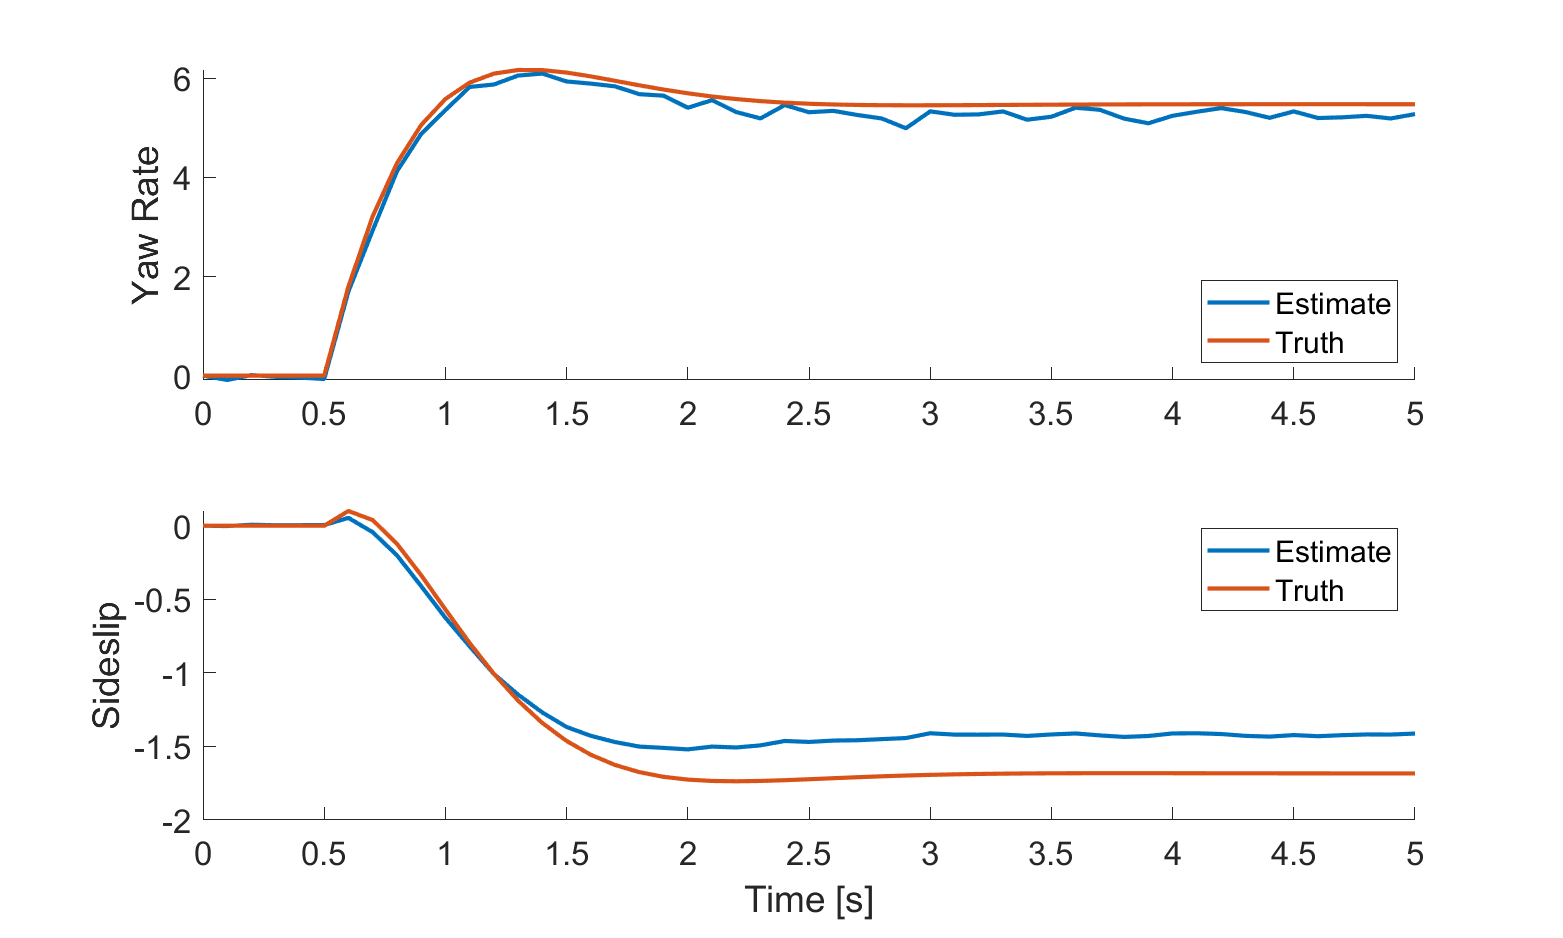
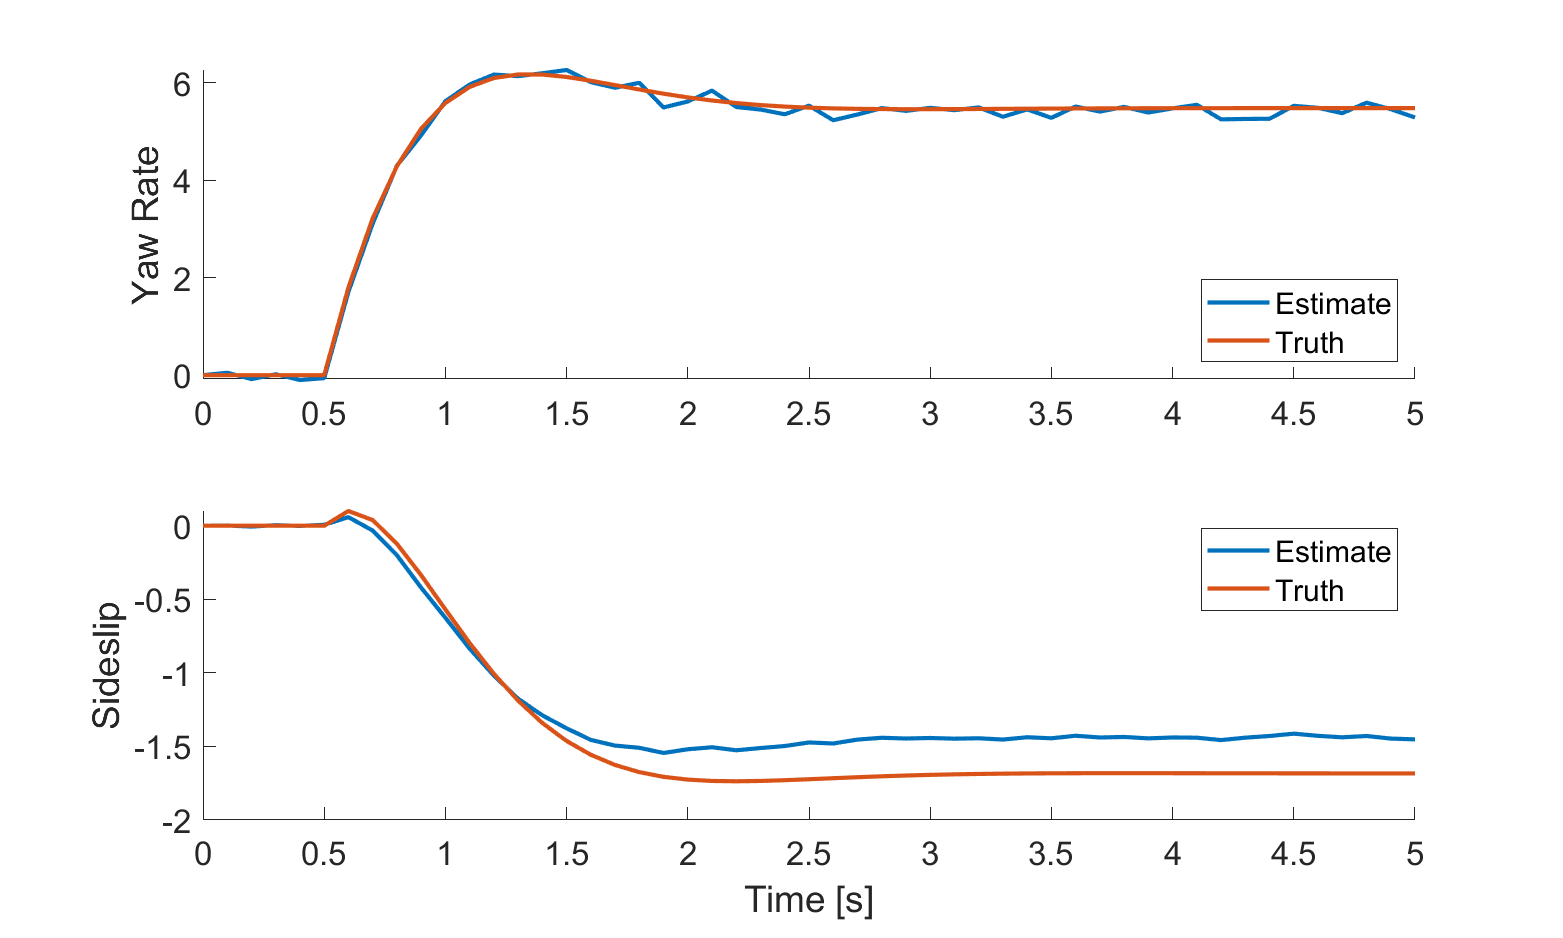
working on question 4 b

diff --git a/Q4b.m b/Q4b.m
@@ -7,60 +7,59 @@ format shortg
 %% Begin Problem 4
 
 % Defining parameters given in problem statement
-A_c = [-2.62 12;-0.96 -2];
-B_c = [14;1];
-C_c = [1 0];
-
-
-
-Q_c = 0.05;
-
-dt = 0.1; % 10 [Hz]
-t = 0:dt:5;
-
-measurement_noise = gaussianDistFCN([length(t) 1],0.1,0);
-% Using Bryson's Trick to convert the continuous system to discrete
-BT = [-A_c B_c*Q_c*B_c'; zeros(2) A_c'];
-BT = expm(BT*dt);
-
-A_da = BT(3:4,3:4)';
-Q_d = A_da*BT(1:2,3:4);
-% B_d = B_c*dt;
-C_d = C_c;
-R_d = 0.05;
-
-steer_angle = [zeros(5,1); ones(46,1)];
-
-% Starting the simulation
-x = zeros(2,length(t));
-y = zeros(1,length(t));
-
-x_plus = zeros(2,length(t));
-P_plus = zeros(2,2);
-
-% Part b - updated dynamic model
 A_c = [-2.42 4;-0.99 -2];
 B_c = [18;1];
 C_c = [1 0];
 
+dt = 0.1; % 10 [Hz]
+t = 0:dt:5;
+Q_c = 0.05;
+measurement_noise = gaussianDistFCN([length(t) 1],0.1,0);
+steer_angle = [zeros(5,1); ones(46,1)];
 
-
-
+% Using Bryson's Trick to convert the continuous system to discrete
 BT = [-A_c B_c*Q_c*B_c'; zeros(2) A_c'];
 BT = expm(BT*dt);
 
-A_d = BT(3:4,3:4)';
-B_d = B_c*dt;
+A_d_a = BT(3:4,3:4)';
+Q_d_a = A_d_a*BT(1:2,3:4);
+B_d_a = B_c*dt;
+C_d_a = C_c;
+R_d_a = 0.01;
 
+x = zeros(2,length(t));
+y = zeros(1,length(t));
+
+% Modeling Continous System
 for i = 2:length(t)
 
     % Modeling System
-    x(:,i) = A_d*x(:,i-1) + B_d*steer_angle(i-1);
-    y(i) = C_d*x(:,i) + measurement_noise(i);
+    x(:,i) = A_d_a*x(:,i-1) + B_d_a*steer_angle(i-1);
+    y(i) = C_d_a*x(:,i) + measurement_noise(i);
+
+end
+
+
+load("Q4b.mat")
+
+
+
+
+
+
+% Starting the simulation
+
+
+x_plus = zeros(2,length(t));
+P_plus = zeros(2,2);
+
+for i = 2:length(t)
+
+
 
     % Modeling Observer
-    x_minus = A_da*x_plus(:,i-1);
-    P_minus = A_da*P_plus*A_da' + Q_d;
+    x_minus = A_d*x_plus(:,i-1);
+    P_minus = A_d*P_plus*A_d' + Q_d;
 
     L = P_minus*C_d'*(C_d*P_minus*C_d' + R_d)^-1;
     P_plus = (eye(2) - L*C_d)*P_minus;

diff --git a/hw3.tex b/hw3.tex
@@ -362,6 +362,7 @@
             \label{eq:TU}
         \end{equation}
 
+
         After trial and error with choosing the correct process noise matrix ($\mathbf{Q}_d$), we are able to filter the measurements fairly accurately. Figure \ref{fig:Q3} shows the first 60 seconds of the filter running using \textit{hw3\_3} as measurements.
 
         \begin{figure}[!h]
@@ -507,7 +508,13 @@
         \part{Redo part (a). Can you estimate the slip angle correctly? Try various $Q_d$.}
 
         \solution{%
-
+            The steady-state error between the original Kalman Filter and the new dynamic model is slightly larger even after changing $\mathbf{Q}_d$ for different values.
+            \begin{figure}[!h]
+                \centering
+                \includegraphics[width=\linewidth]{Q4b.png}
+                \caption{Comparison of original Kalman Filter with new dynamic model.}
+                \label{fig:Q4b}
+            \end{figure}
         }
 
         \part{Now lets say we have a noisy measurement of the slip angle ($\eta_k \sim N\left[0,0.5^2\right]$):
